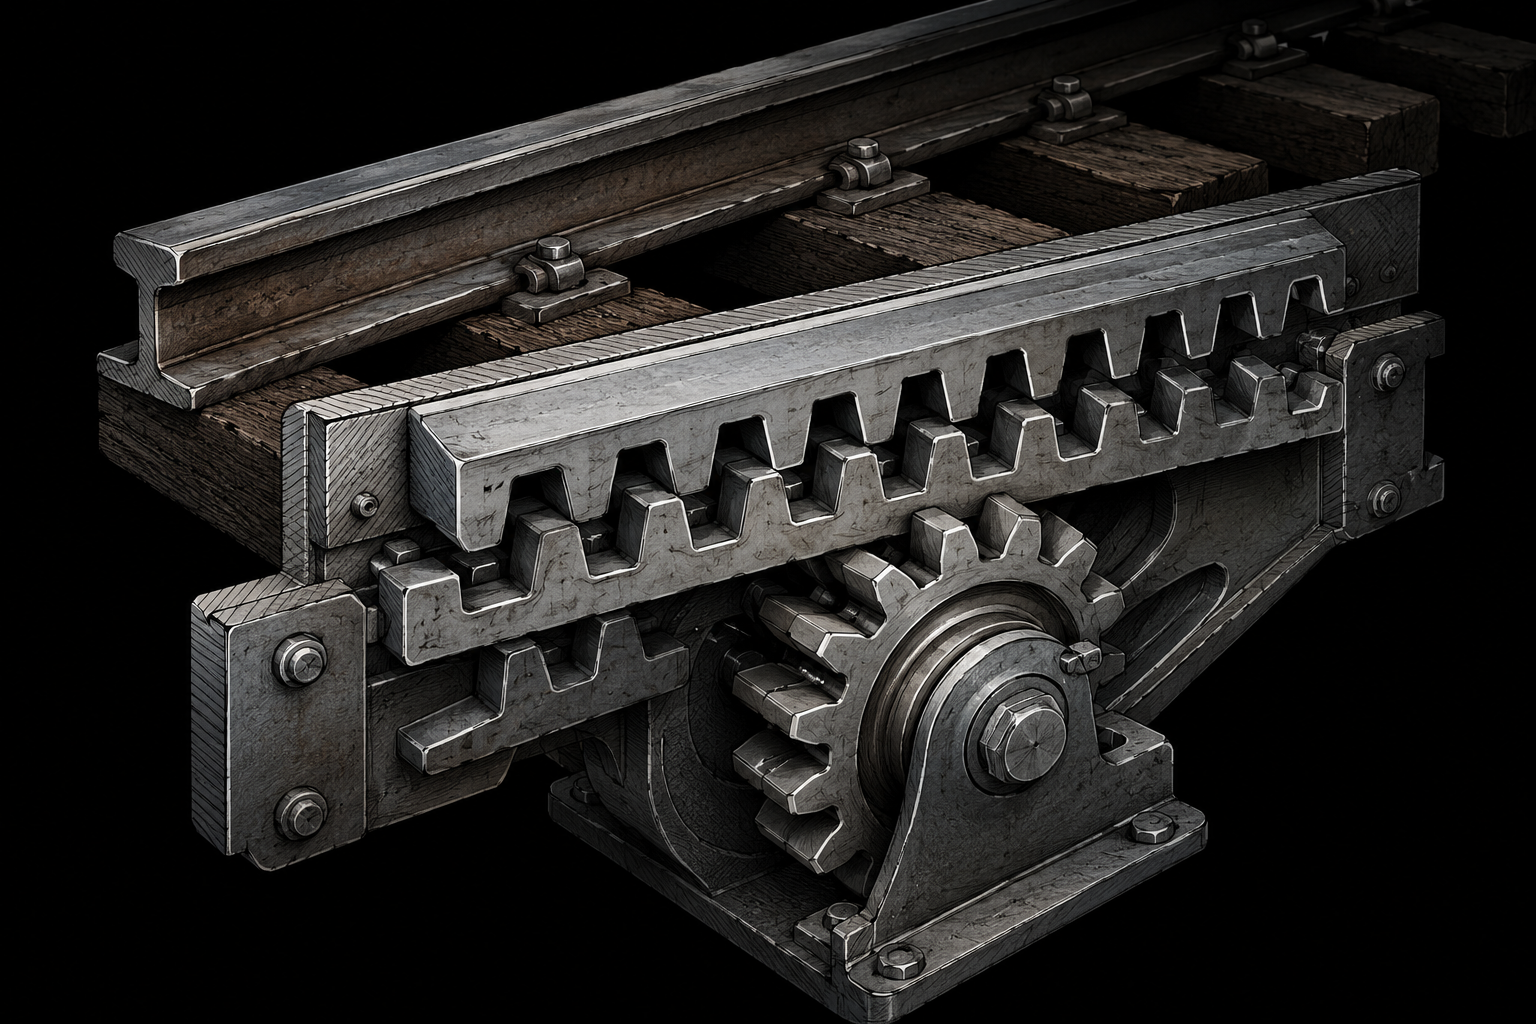
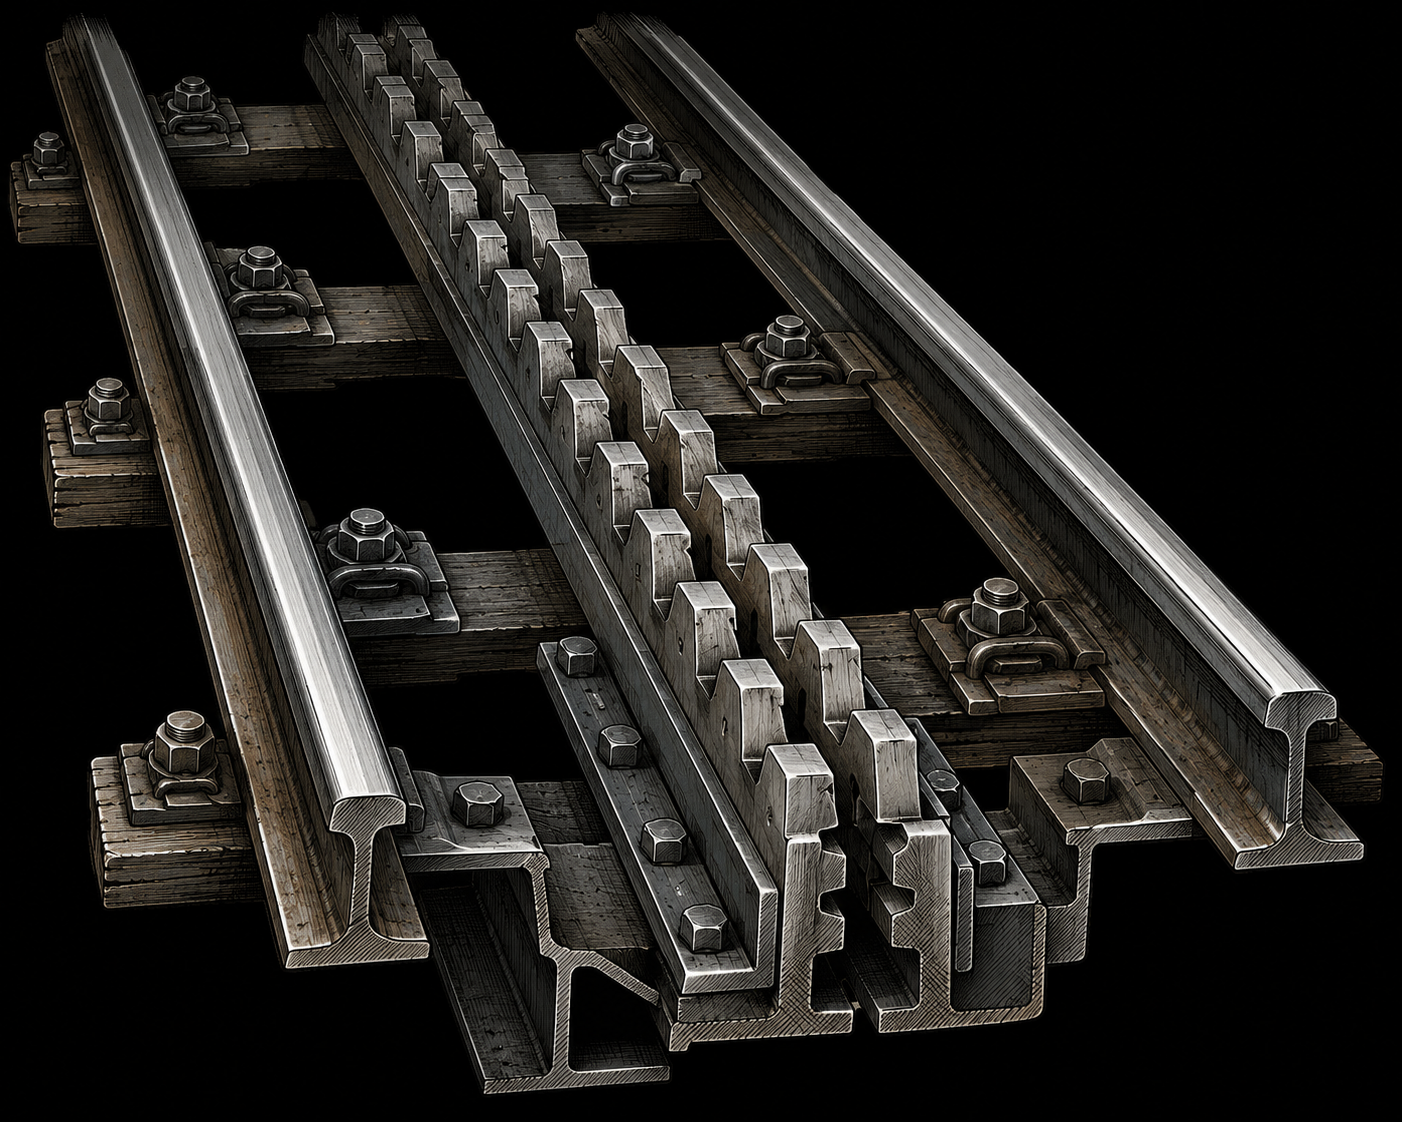
fix: resolve vonroll hotpots issue

diff --git a/src/data.ts b/src/data.ts
@@ -177,43 +177,43 @@ export const SYSTEM_DATA: ZahnradSystem[] = [
     id: 'von_roll',
     name: 'Von Roll System',
     developed: '1900-er',
-    type: 'Flacheisen-Ergänzungssystem',
-    explanationShort: 'Das System Von Roll ist kein eigenständiges Zahnstangensystem, sondern eine Ergänzung zu Riggenbach und Strub. Es vereinfacht mit geraden flachen Eisenstücken vor allem den Einbau von Zahnstangenweichen erheblich.',
-    steepDangerText: 'Die Weichen bei Zahnradbahnen nach Riggenbach und Strub waren ausgesprochen kompliziert zu bauen und zu unterhalten, was den Betrieb verteuerte und Störanfälligkeit erhöhte.',
-    solutionText: 'Von Rolls Lösung: Statt Leiterzahnstange oder Keilschiene kommt ein einfaches, gerades flaches Eisen zum Einsatz. Die Zahnteilung entspricht exakt jener von Riggenbach und Strub, was eine direkte Kombination ermöglicht. Im Weichenbereich lässt sich dieses Flacheisen viel leichter montieren.',
+    type: 'Monoblock-Vollstahlprofil',
+    explanationShort: 'Eine moderne und hochentwickelte Optimierung für heutige Bergbahnen. Es ist voll kompatibel zu Abt, besteht aber aus einem einzigen monolithischen Gusselement.',
+    steepDangerText: 'Das Aufkommen schwerster Güter- und Personenströme beansprucht die historischen, mehrteiligen Schiebeleitern so massiv, dass der Wartungsaufwand explodiert.',
+    solutionText: 'Von Rolls Schweizer Ingenieursleistung: Eine komplett im Walzwerk gegossene massive Einzelschiene mit vertikaler Fräsverzahnung. Keine Schweissnähte, keine Nieten, kein Lockern.',
     techStats: [
-      { label: 'Max. Steigung', value: '250 ‰ (25 %)' },
-      { label: 'Zahnteilung', value: '100 mm' },
-      { label: 'Material Zahnstange', value: 'Flachstahl' },
-      { label: 'Spurweite', value: '1000 mm / 1435 mm' }
+      { label: 'Max. Steigung', value: '150 ‰ (15 %)' },
+      { label: 'Zahnteilung', value: '120 mm' },
+      { label: 'Material Zahnstange', value: 'Hochfester Vergütungsstahl' },
+      { label: 'Spurweite', value: '1000 mm' }
     ],
     hotspots: [
       {
-        id: 'flacheisen',
-        title: 'Einfaches Flacheisen',
-        description: 'Statt einer Leiterkonstruktion oder einer Keilschiene wird ein simples, gerades Flacheisen mit eingefrästen Zähnen verwendet. Das reduziert die Fertigungskosten und vereinfacht die Montage erheblich.',
+        id: 'monoblock',
+        title: 'Fugenlose Vollstahlschiene',
+        description: 'Es gibt keine einzelnen Platten oder Bolzen mehr. Die Zähne sind mit CNC-Präzision direkt aus einer extrem harten, gegossenen Stahlschiene gefräst.',
         top: '28%',
         left: '20%'
       },
       {
-        id: 'weichenbereich',
-        title: 'Vereinfachte Weichen',
-        description: 'Der eigentliche Zweck des Systems: Im Bereich von Weichen lässt sich die gerade Flacheisen-Zahnstange viel einfacher verlegen als die komplizierte Leiterkonstruktion nach Riggenbach. Heute werden neue Weichen fast ausschliesslich nach Von Roll ausgerüstet.',
-        top: '55%',
-        left: '48%'
-      },
-      {
-        id: 'kompatibilitaet',
-        title: 'Kompatibilität mit Riggenbach & Strub',
-        description: 'Die Zahnteilung des Von-Roll-Systems entspricht exakt jener von Riggenbach und Strub. Dadurch können alle drei Systeme auf derselben Strecke kombiniert werden, ohne dass die Lokomotive gewechselt werden muss.',
+        id: 'abt_kompatibel',
+        title: 'Universal-Verzahnung',
+        description: 'Durch ausgeklügelte Abmessungen können Loks mit Abt-Zahnrädern diese moderne Von-Roll-Zahnstange anstandslos befahren. Perfekt für Strecken-Teilerneuerungen.',
         top: '40%',
         left: '75%'
+      },
+      {
+        id: 'lange_lebensdauer',
+        title: 'Verschleissfreie Legierung',
+        description: 'Dank modernster Oberflächenhärtung trotzt dieses System extremsten Bremsreibungswärmen ohne thermischen Schock oder Geometrieverzug.',
+        top: '55%',
+        left: '48%'
       }
     ],
-    historyAndPurpose: 'Die Firma Von Roll entstand 1803 und fertigte in der Region Gussprodukte und Baukomponenten. Man vereinfachte die bestehenden Zahnstangen von Riggenbach und Strub, indem man ein einfaches flaches Eisen verwendete. Das System war nie als Ersatz gedacht, sondern als Ergänzung – insbesondere zur Lösung der komplizierten Weichenproblematik. Es wurde bei der Appenzellerbahn, der Ouchy–Lausanne-Flon (eingestellt) und der Zentralbahn (Strecke nach Engelberg) eingesetzt.',
-    maxGradientPercent: 25,
-    famousLine: 'Appenzellerbahn / Zentralbahn',
-    tagline: 'Die Weichenlösung',
+    historyAndPurpose: 'Die Firma Von Roll (heute Tenconi) hat dieses System standardisiert, um Schweizer Bergbahnen ins 21. Jahrhundert zu führen. Es lässt sich extrem schnell verlegen, widersteht modernsten 100-Tonnen-Triebzügen spielend und ist heute das am häufigsten verbaute Zahnstangen-Modernisierungskit.',
+    maxGradientPercent: 15,
+    famousLine: 'Moderne Bergbahnen',
+    tagline: 'Fugenloser Vollstahl',
     iconKey: 'monoblock'
   }
 ];
@@ -254,14 +254,14 @@ export const QUIZ_QUESTIONS: QuizQuestion[] = [
   },
   {
     id: 5,
-    question: 'Wofür wurde das System Von Roll hauptsächlich entwickelt?',
+    question: 'Welches Kriterium charakterisiert die moderne Schiene von Von Roll?',
     options: [
-      'Als vollständiger Ersatz für das System Riggenbach auf steilen Strecken',
-      'Für den Einsatz auf Breitspur-Zahnradbahnen in Südamerika',
-      'Zur Vereinfachung der Zahnstangenweichen bei bestehenden Bahnen',
-      'Als erstes System mit horizontalem Zahneingriff'
+      'Sie besteht aus elastischem Hartgummi',
+      'Sie ist ein CNC-gefrästes, monolithisches Funder-Vollstahlprofil ohne Nieten',
+      'Sie muss täglich manuell mit Sand bestreut werden',
+      'Sie benötigt drei Zahnräder übereinander'
     ],
-    correctOptionIndex: 2, // Zur Vereinfachung der Zahnstangenweichen
-    explanation: 'Das System Von Roll war nie als eigenständiges Streckensystem geplant. Ein simples flaches Eisen ersetzt im Weichenbereich die komplizierte Leiterkonstruktion nach Riggenbach – und wird dort bis heute fast ausschliesslich verbaut.'
+    correctOptionIndex: 1, // Sie ist ein CNC-gefrästes, monolithisches Funder-Vollstahlprofil ohne Nieten
+    explanation: 'Das moderne Von Roll System maximiert die Zuverlässigkeit, indem es Fugen und Nieten eliminiert. Ein hochfester Einblockstahl wird direkt vorgefräst.'
   }
 ];

diff --git a/src/components/diagrams/SystemBlueprint.tsx b/src/components/diagrams/SystemBlueprint.tsx
@@ -14,6 +14,7 @@ const photoMap: Record<string, string> = {
   locher: '/systemPictures/locher.png',
   strub: '/systemPictures/strub.png',
   riggenbach: '/systemPictures/rigenbach.png',
+  von_roll: '/systemPictures/vonroll.png',
 };
 
 export default function SystemBlueprint({ systemId, hotspots, onHotspotClick }: Readonly<SystemBlueprintProps>) {